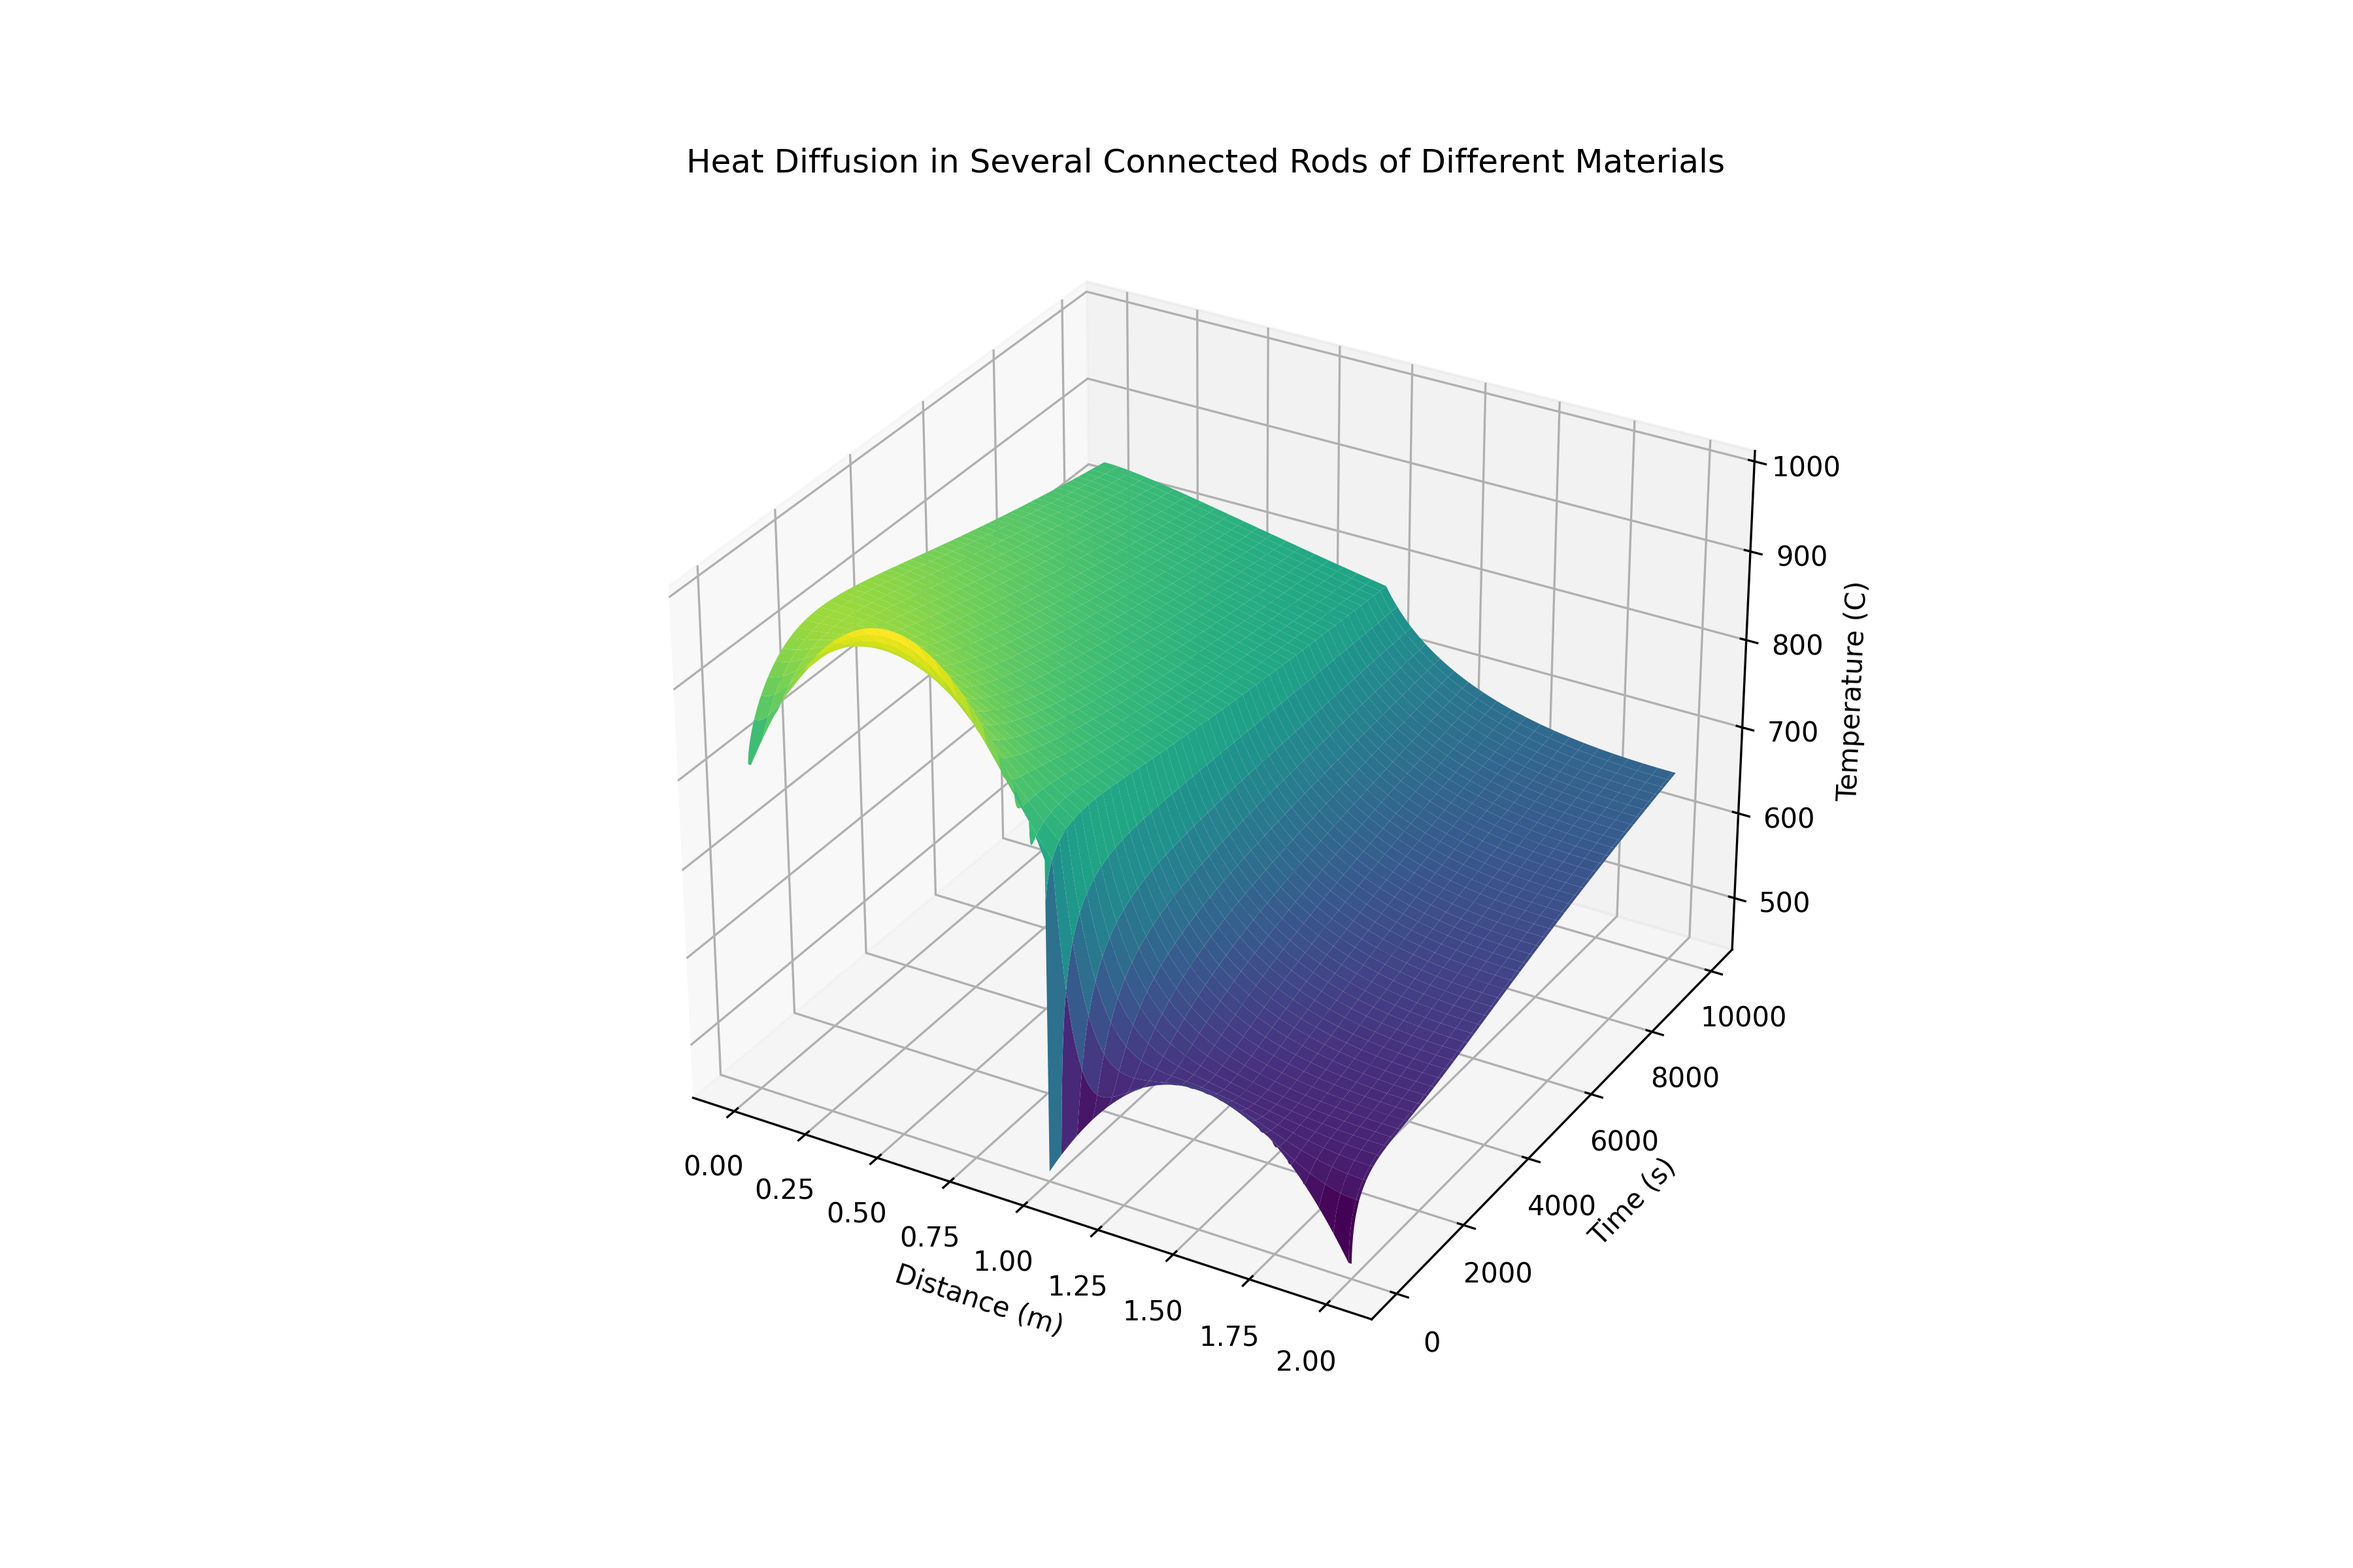
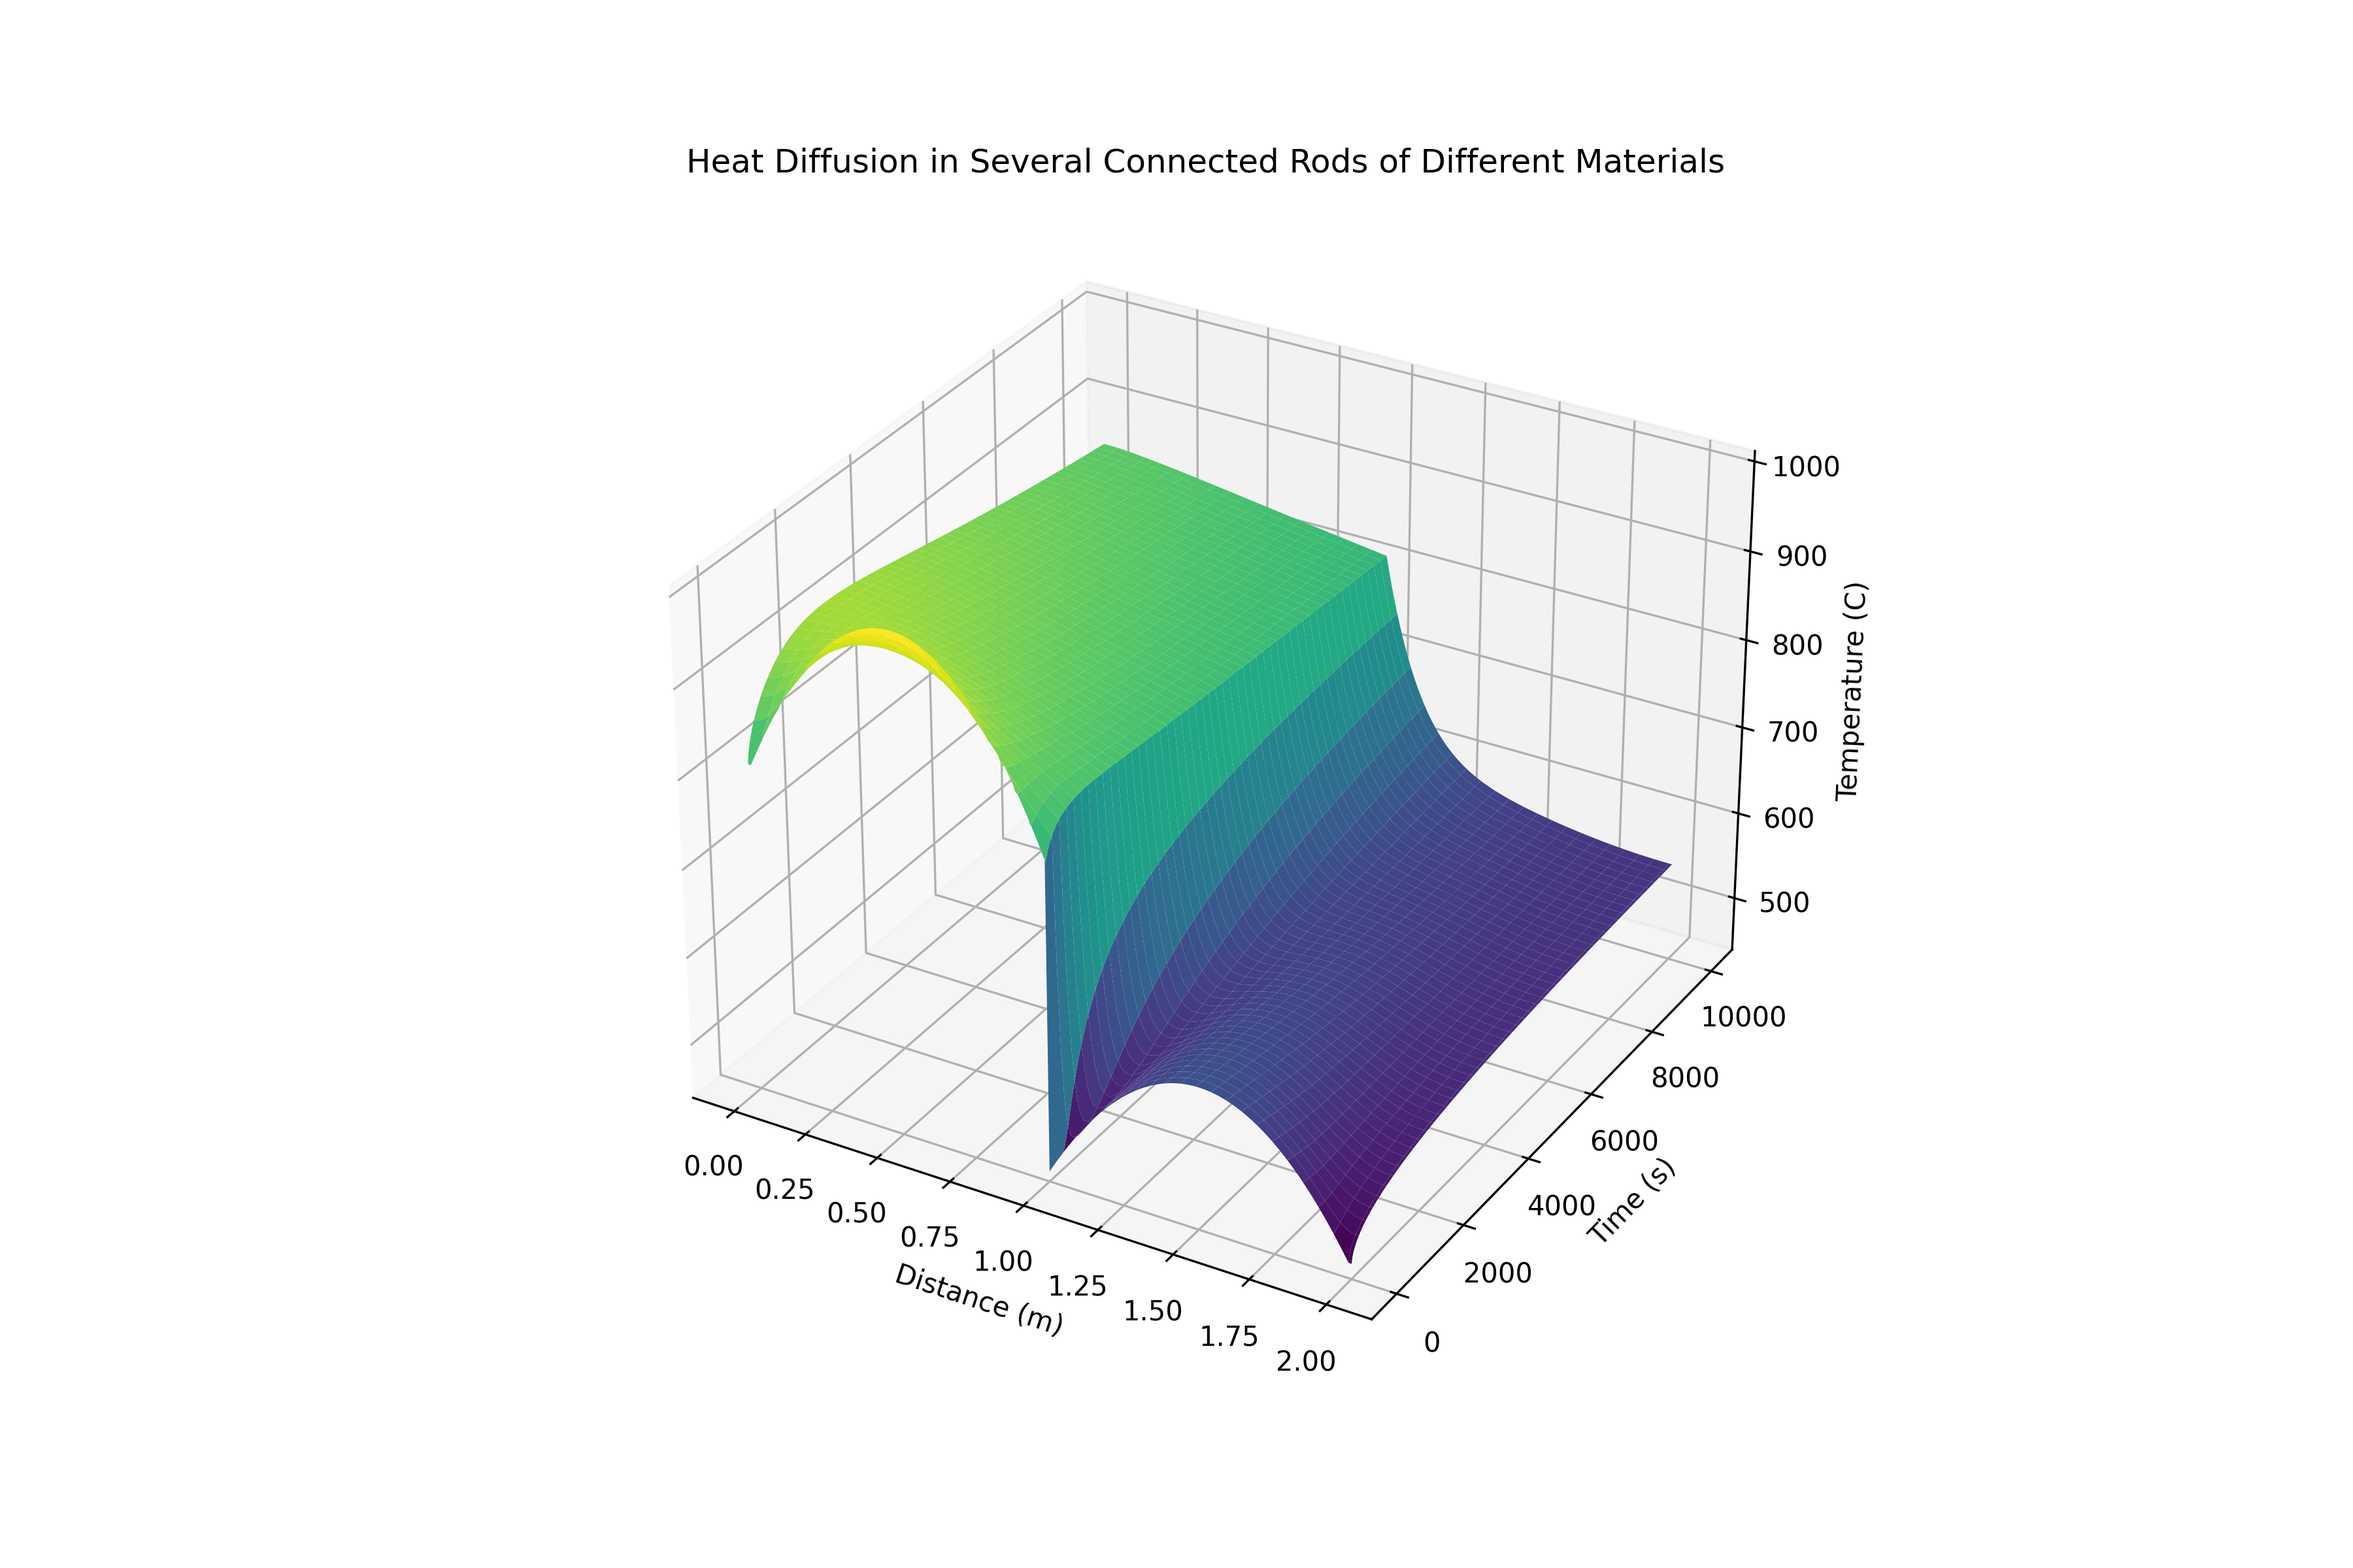
Added case for grain (incomplete)

Changed region(s): [[0.3422, 0.2812, 0.7156, 0.7812]]

diff --git a/Element_Partitioning_and_Diffusion/Two_grains_mBC.py b/Element_Partitioning_and_Diffusion/Two_grains_mBC.py
@@ -1,0 +1,100 @@
+####################################################################################################
+# Solving heat diffusion for system with two grains of different material using 
+# finite difference method initially heated to two different arbitrary concentration profiles 
+# C(x, 0) = -800 * (x - 0.6)**2 + 1000  and 
+# C(x, 0) = -600 * (x - 1.5)**2 + 600
+# and then joined together while keeping their extreme ends isolated. 
+# The heat flow balances in both grains to equilibriate. 
+####################################################################################################
+
+import matplotlib.pyplot as plt
+import numpy as np
+from numba import njit
+
+
+@njit
+def my_code():
+    # Constants and parameters
+    L_grain1 = 100.0  # length of the first grain
+    L_grain2 = 100.0  # length of the second grain
+    alpha_grain1 = 1  # thermal diffusivity for grain 1
+    alpha_grain2 = 1  # thermal diffusivity for grain 2
+    dt = 0.1  # time step
+    dx = 1  # spatial step
+    duration = 1000  # total simulation time
+
+    gamma = 0.8
+
+    # Discretization
+    Nx_grain1 = int(L_grain1 / dx) + 1
+    Nx_grain2 = int(L_grain2 / dx) + 1
+    Nt = int(duration / dt) + 1
+
+    # Define spatial coordinates for each grain
+    x_values_grain1 = np.linspace(0, L_grain1, Nx_grain1)
+    x_values_grain2 = np.linspace(L_grain1, L_grain1 + L_grain2, Nx_grain2)
+    x_values_total = np.concatenate((x_values_grain1, x_values_grain2))
+
+    # Initialize concentration arrays for each grain
+    C_grain1 = np.zeros((Nt, Nx_grain1))
+    C_grain2 = np.zeros((Nt, Nx_grain2))
+
+    # Initial conditions for each grain
+    C_grain1[0, :] = -0.04 * (x_values_grain1 - L_grain1/2)**2 + 200
+    C_grain2[0, :] = -0.02 * (x_values_grain2 - int(L_grain2/2+L_grain1))**2 + 100
+
+    # Boundary conditions
+    C_grain1[:, 0] = C_grain1[:, 1]  # Isolated boundary for grain 1
+    C_grain2[:, -1] = C_grain2[:, -2]  # Isolated boundary for grain 2
+
+    # Finite difference method for each grain
+    for n in range(0, Nt - 1):
+        for i in range(1, Nx_grain1 - 1):
+            C_grain1[n + 1, i] = C_grain1[n, i] + alpha_grain1 * dt / dx**2 * (C_grain1[n, i + 1] - 2 * C_grain1[n, i] + C_grain1[n, i - 1])
+
+        for i in range(1, Nx_grain2 - 1):
+            C_grain2[n + 1, i] = C_grain2[n, i] + alpha_grain2 * dt / dx**2 * (C_grain2[n, i + 1] - 2 * C_grain2[n, i] + C_grain2[n, i - 1])
+
+        # Isolated boundary conditions for both grains
+        C_grain1[n + 1, 0] = C_grain1[n, 1]
+        C_grain2[n + 1, -1] = C_grain2[n, -2]
+
+        # Boundary condition at the junction of the two grains
+        C_grain1[n + 1, -1] = (alpha_grain1*C_grain1[n+1, -2] + alpha_grain1*C_grain2[n+1, 1]) / (alpha_grain1 + gamma*alpha_grain1)
+        C_grain2[n + 1, 0] = (alpha_grain1*C_grain1[n+1, -2] + alpha_grain1*C_grain2[n+1, 1]) / (alpha_grain1/gamma + alpha_grain1)
+
+    # Combine the concentrations of the two grains
+    C_total = np.concatenate((C_grain1, C_grain2), axis=1)
+
+    return C_total, x_values_total, duration, Nt
+
+C_total, x_values_total, duration, Nt = my_code()
+
+def plot_3D():
+    # Create a 3D surface plot for the total concentration
+    X_total, C_values_total = np.meshgrid(x_values_total, np.linspace(0, duration, Nt))
+    fig = plt.figure(figsize=(12, 8))
+    ax = fig.add_subplot(111, projection='3d')
+    ax.plot_surface(X_total, C_values_total, C_total, cmap='viridis')
+    ax.set_xlabel(r'Distance ($\mu$m)')
+    ax.set_ylabel('Time (s)')
+    ax.set_zlabel('Concentration (ppm)')
+    ax.set_title('Heat Diffusion in Several Connected Rods of Different Materials')
+
+    plt.savefig('Element_Partitioning_and_Diffusion/Plots/ElemPart_two_grains_mBC_3D.png', dpi=300)
+
+def plot_2D():
+    # Create a 2D plot for Concentration vs Length for every (Nt/10)th time step
+    plt.figure(figsize=(12, 8))
+    for i in range(0, Nt, int(Nt/10)):
+        plt.plot(x_values_total, C_total[i, :], label='t = ' + str(i*duration/(Nt-1)) + ' s')
+    plt.xlabel(r'Distance ($\mu$m)')
+    plt.ylabel('Concentration (ppm)')
+    plt.title('Heat Diffusion in Several Connected Rods of Different Materials')
+    plt.legend()
+    plt.savefig('Element_Partitioning_and_Diffusion/Plots/ElemPart_two_grains_mBC.png', dpi=300)
+
+
+plot_3D()
+plt.show()
+

diff --git a/Heat_diffusion_in_metal_rods/Two_connected_rods_variable_diffusivity.py b/Heat_diffusion_in_metal_rods/Two_connected_rods_variable_diffusivity.py
@@ -27,7 +27,10 @@ def my_code():
     Nt = int(duration / dt) + 1
 
     alpha_rod1 = 1e-4*np.linspace(0.1, 1, Nx_rod1)  # thermal diffusivity for rod 1
-    alpha_rod2 = 1e-4*np.linspace(0.1, 1, Nx_rod2)  # thermal diffusivity for rod 2
+    alpha_rod2 = 1e-5*np.linspace(0.1, 1, Nx_rod2)  # thermal diffusivity for rod 2
+
+    k_rod1 = 398.0*np.linspace(0.1, 1, Nx_rod1)
+    k_rod2 = 100.0*np.linspace(0.1, 1, Nx_rod2)
 
     # Define spatial coordinates for each rod
     x_values_rod1 = np.linspace(0, L_rod1, Nx_rod1)
@@ -59,7 +62,7 @@ def my_code():
         T_rod2[n + 1, -1] = T_rod2[n, -2]
 
         # Boundary condition at the junction of the two rods
-        T_rod1[n + 1, -1] = (alpha_rod1[-1]*T_rod1[n+1, -2] + alpha_rod2[0]*T_rod2[n+1, 1]) / (alpha_rod1[-1] + alpha_rod2[0])
+        T_rod1[n + 1, -1] = (k_rod1[-1]*T_rod1[n+1, -2] + k_rod2[0]*T_rod2[n+1, 1]) / (k_rod1[-1] + k_rod2[0])
         T_rod2[n + 1, 0] = T_rod1[n + 1, -1]
 
     # Combine the temperatures of the two rods
